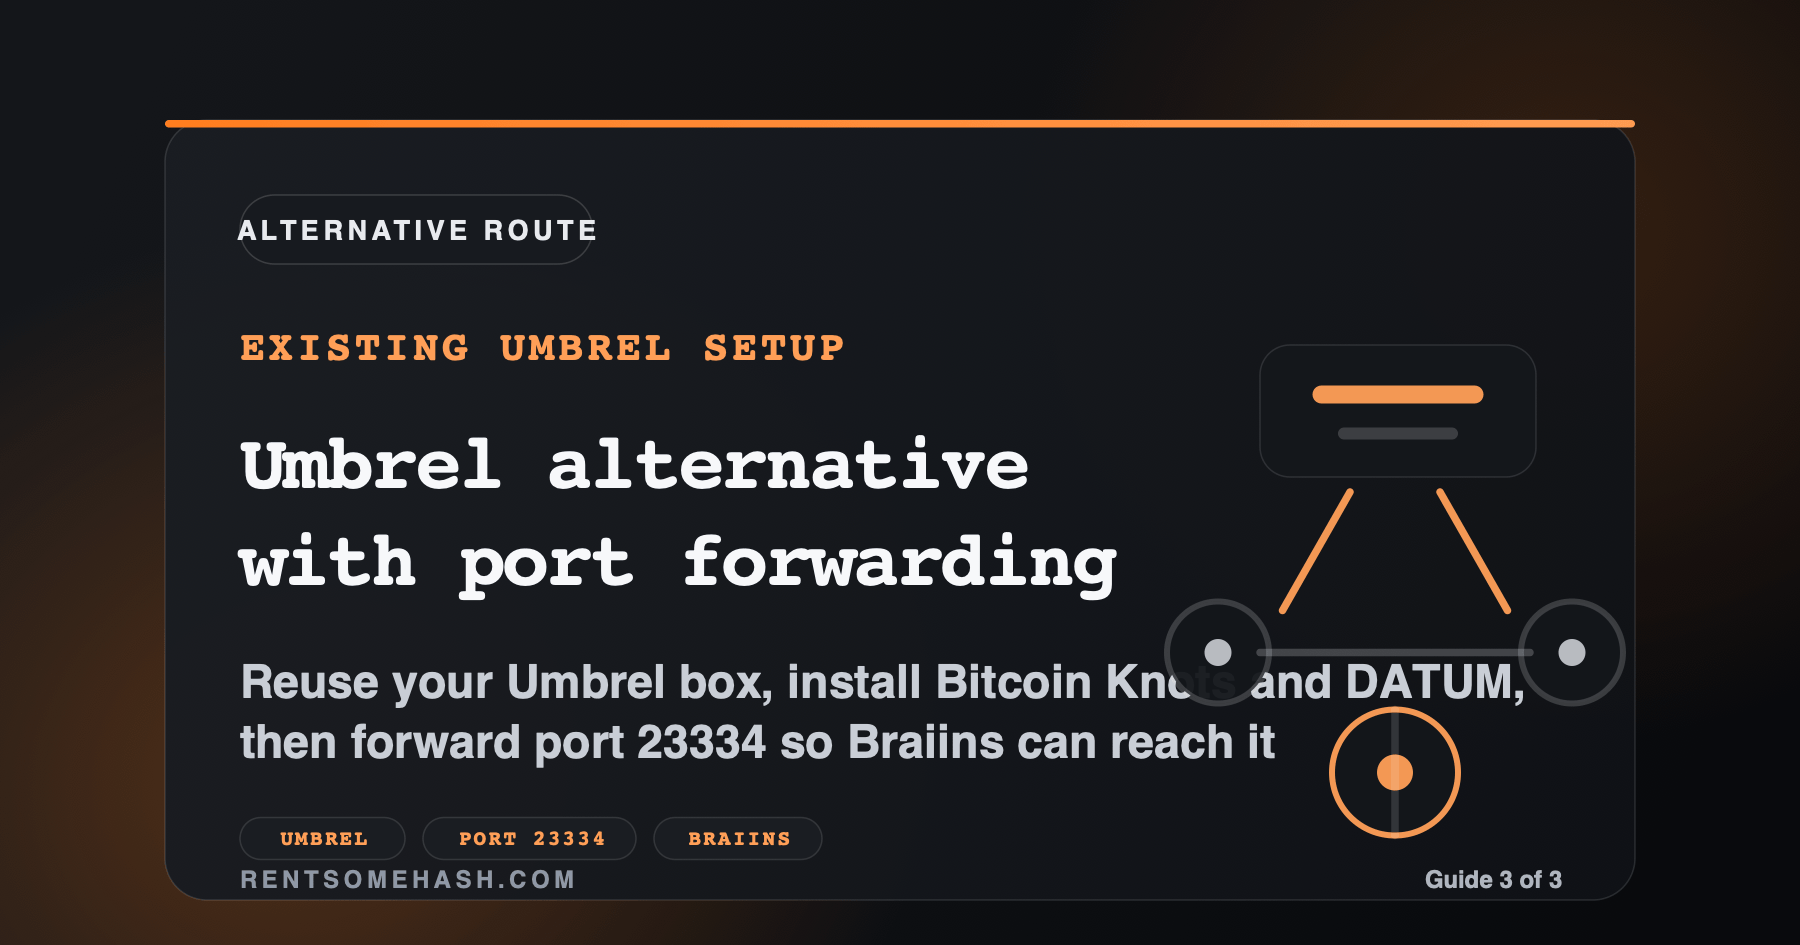
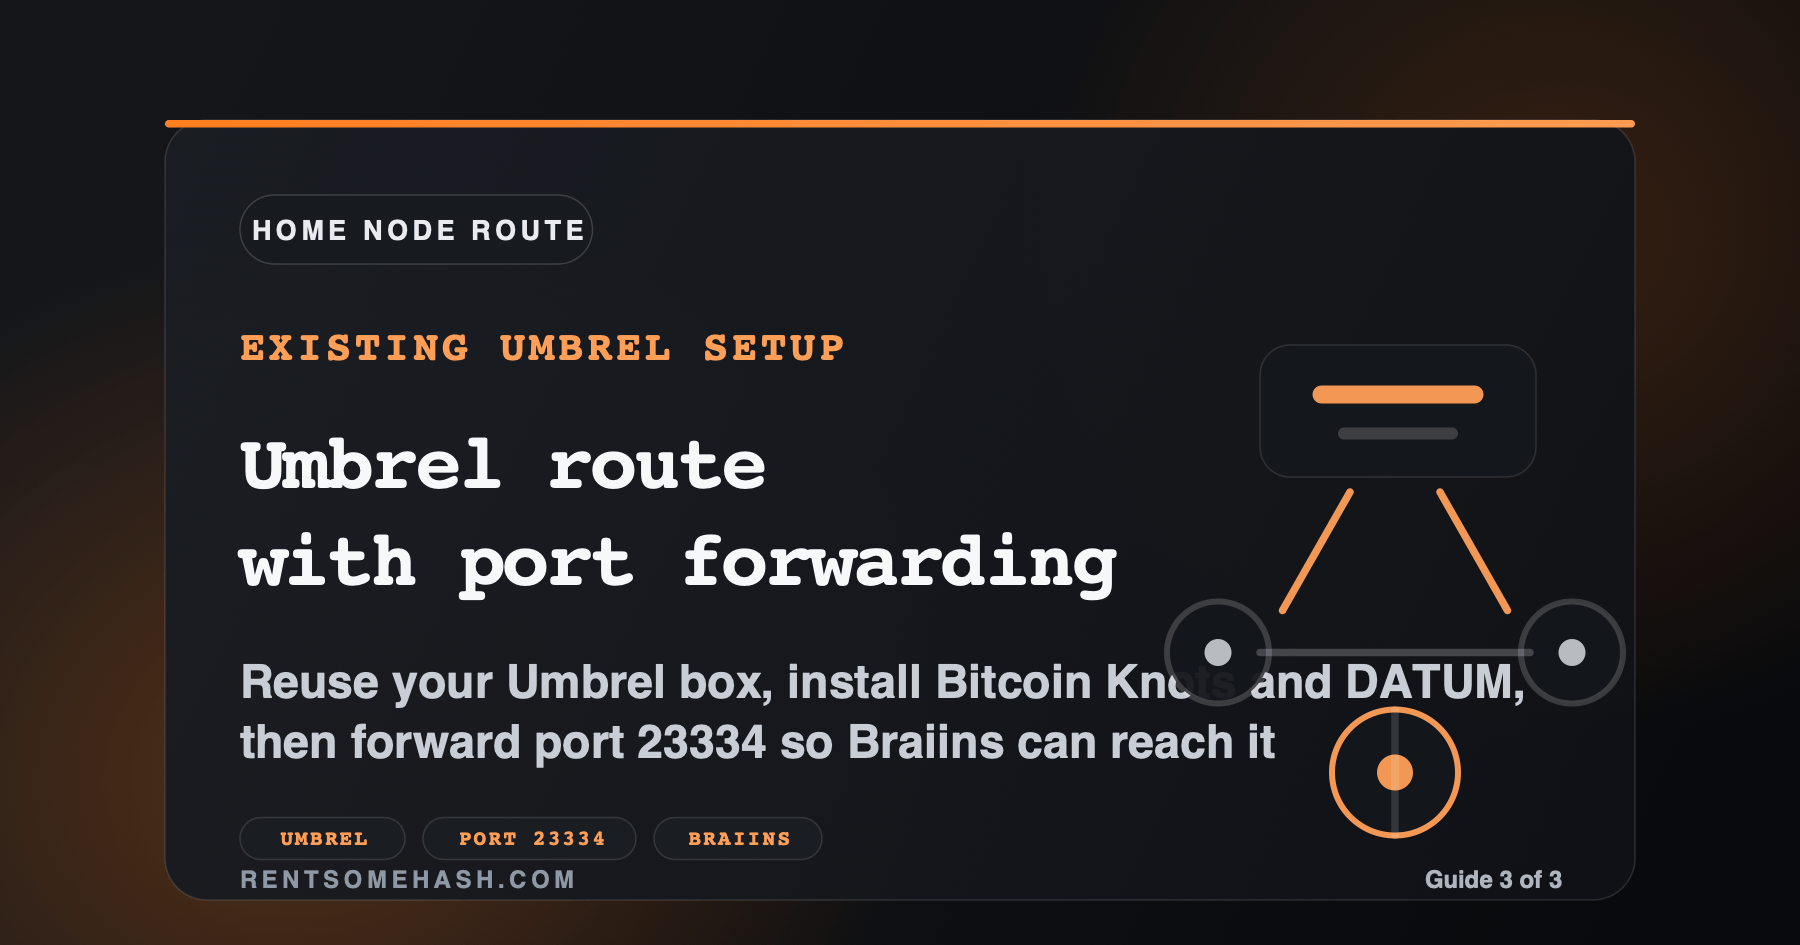
Rename home node routes
Replace the generic alternative wording with home node language across the homepage and guide pages.

Refresh the StartOS and Umbrel social cards so the exported PNGs match the new labels users will see on the site.

Changed region(s): [[0.3111, 0.4603, 0.5911, 0.5217], [0.1244, 0.2148, 0.3422, 0.2762]]

diff --git a/content/pages/home.md b/content/pages/home.md
@@ -4,15 +4,15 @@ description: "Mechanic's guide for renting hashpower on Braiins, pointing it at 
 eyebrow: "Mechanic's guide"
 primaryCtaLabel: "Read the main guide"
 primaryCtaHref: "/guides/braiins-ocean/"
-secondaryCtaLabel: "Alternative guides"
+secondaryCtaLabel: "Home node guides"
 secondaryCtaHref: "/#routes"
 highlights:
   - title: "Get the node and DATUM online first"
     body: "The longest part is getting the box up and syncing. The main route assumes a fresh Linux VPS and builds a combined node + DATUM machine so the parts already fit together."
   - title: "Braiins is just the hashpower side"
     body: "Once the box is ready, Braiins is mostly account setup, funding, and entering the right pool URL and username without typos."
-  - title: "Alternative guides are there if you already run home hardware"
-    body: "If you already trust a home box more than a fresh VPS, use the StartOS or Umbrel route and expose DATUM from the box you already run."
+  - title: "Use the home node guides (StartOS, Umbrel) if you already run home hardware"
+    body: "If you already trust a home box more than a fresh VPS, use the home node guides and expose DATUM from the box you already run."
 warnings:
   - title: "Bring a Bitcoin address you actually control"
     body: "The installer asks for `POOL_ADDRESS`, and that has to be a valid Bitcoin address with keys you control. If you change DATUM behavior later, rewards can still flow there."
@@ -24,4 +24,4 @@ warnings:
 
 This is a cleaned-up version of Mechanic's workflow for getting from zero to a working Braiins-to-OCEAN setup.
 
-Start with the main route if you want the shortest path and are happy to spin up a Linux VPS just for this. If you already run StartOS or Umbrel, skip to the alternative guides and reuse what you already have.
+Start with the main route if you want the shortest path and are happy to spin up a Linux VPS just for this. If you already run StartOS or Umbrel, skip to the home node guides and reuse what you already have.

diff --git a/README.md b/README.md
@@ -73,7 +73,7 @@ Some content is intentionally still code-owned:
 - header nav labels in [`web/src/components/Header.astro`](./web/src/components/Header.astro)
 - footer links in [`web/src/components/Footer.astro`](./web/src/components/Footer.astro)
 - homepage hero headline and several section labels in [`web/src/pages/index.astro`](./web/src/pages/index.astro)
-- guide page labels like `Main route`, `Alternative`, and `Related guide` in [`web/src/pages/guides/[slug].astro`](./web/src/pages/guides/[slug].astro)
+- guide page labels like `Main route`, `Home node`, and `Related guide` in [`web/src/pages/guides/[slug].astro`](./web/src/pages/guides/[slug].astro)
 
 If you want those to become editable content instead of code edits, the content schema would need to be expanded first.
 

diff --git a/content/guides/umbrel.md b/content/guides/umbrel.md
@@ -1,5 +1,5 @@
 ---
-title: "Umbrel alternative with router port forwarding"
+title: "Umbrel route with router port forwarding"
 description: "Use this route if you already run Umbrel and would rather reuse that box than build a fresh VPS around DATUM."
 slug: umbrel
 order: 3
@@ -7,7 +7,7 @@ kind: alternative
 summary: "Reuse an existing Umbrel setup, install Bitcoin Knots and DATUM, then forward port 23334 from your router to Braiins."
 navLabel: "Umbrel"
 routeType: "Existing Umbrel setup"
-eyebrow: "Alternative route"
+eyebrow: "Home node route"
 featured: false
 updated: "2026-04-02"
 ---

diff --git a/content/guides/startos.md b/content/guides/startos.md
@@ -1,5 +1,5 @@
 ---
-title: "StartOS alternative with Start Tunnel"
+title: "StartOS route with Start Tunnel"
 description: "Use this route if you already run StartOS and would rather point Braiins at your home setup through Start Tunnel."
 slug: startos
 order: 2
@@ -7,7 +7,7 @@ kind: alternative
 summary: "Reuse an existing StartOS setup, install the right packages, and route Braiins through Start Tunnel."
 navLabel: "StartOS"
 routeType: "Existing StartOS setup"
-eyebrow: "Alternative route"
+eyebrow: "Home node route"
 featured: false
 updated: "2026-03-29"
 ---
